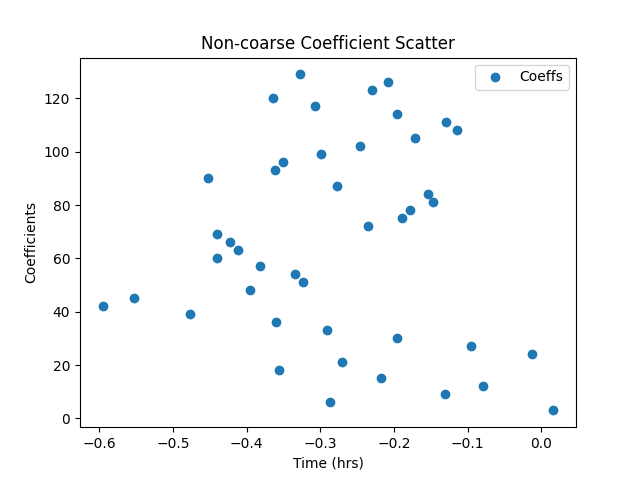
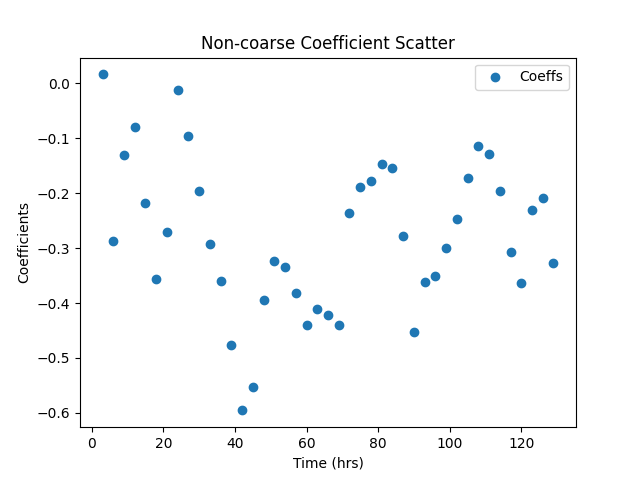
scatter works

diff --git a/Scripts_HAR/Corr_Scatter.py b/Scripts_HAR/Corr_Scatter.py
@@ -30,13 +30,8 @@ def create_plot(coeff, time):
     """
     #plotting coefficients vs time
 
-    plt.scatter(time, coeff, label='Coeffs')
-    
-    #trendline 
-    fit = np.polyfit(time, coeff, 1)
-    fit_fn = np.poly1d(fit)
-    
-    plt.plot(coeff,fit_fn(coeff),color='red', label='Trendline')
+    plt.scatter(coeff, time, label='Coeffs')
+     
     plt.legend()
 
     plt.xlabel('Time (hrs)')
@@ -51,15 +46,15 @@ def main():
 
     ctp = get_ctp()
     time_steps = len(ctp)
-    coeff = np.zeros([time_steps, 1])
-    time = np.zeros([time_steps, 1])
+    coeff = np.zeros([time_steps])
+    time = np.zeros([time_steps])
     
     for i in range(time_steps):
         coeff[i] = ctp[i]['Correlation Coefficient']
         time[i] = ctp[i]['Time(hrs)']
     
     #Generate Plot
-    create_plot(time.flatten(), coeff.flatten())
+    create_plot(time, coeff)
 
 if __name__ == "__main__":
     """ This is executed when run from the command line """
